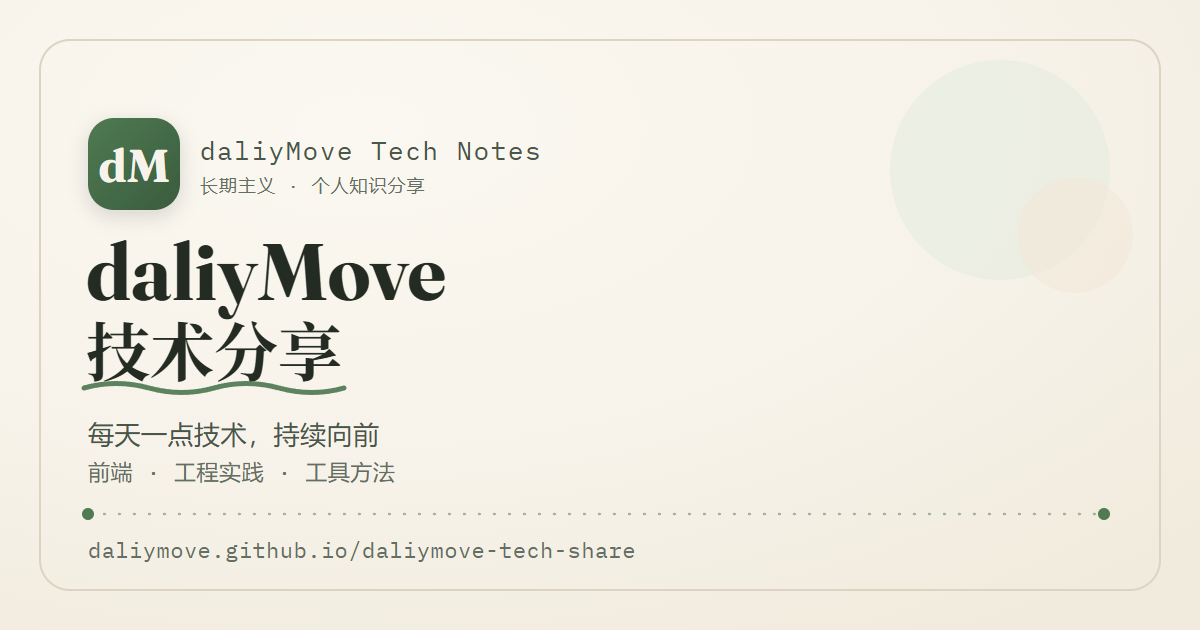
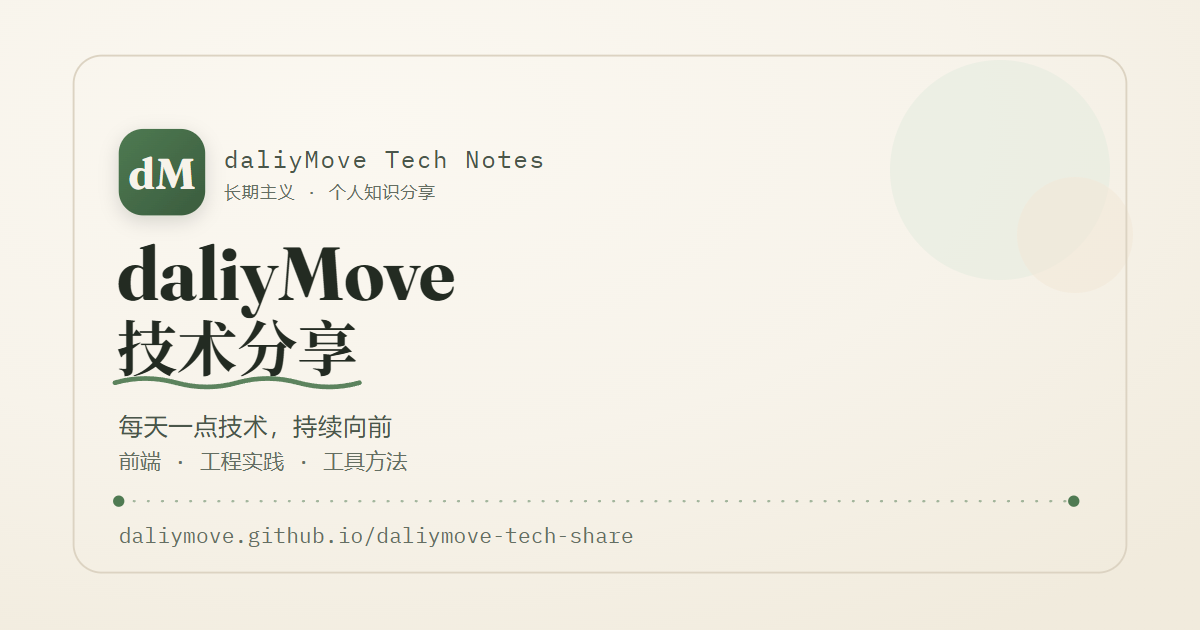
fix: scale cover content to prevent edge clipping
The exported cover PNG was cutting off the right end of the site URL.
Scale all non-background content to 94% with 36/18 px safe margins so
edges are no longer clipped during headless export or card object-cover.

- Update public/images/og/default.svg (add translate+scale group)
- Re-export default.png from cover-render.html
- Refresh design/cover-preview.html and design/cover-render.html
- Add design/screenshot-home-v2.png to verify card display
- Add .workbuddy/ and .playwright-cli/ to .gitignore

diff --git a/design/cover-preview.html b/design/cover-preview.html
@@ -13,8 +13,7 @@
   .block { margin: 0 0 40px; }
   .label { font-size: 12px; letter-spacing: 0.14em; text-transform: uppercase; color: #4F7A52; font-family: ui-monospace, monospace; margin: 0 0 10px; }
   .og { border-radius: 18px; overflow: hidden; box-shadow: 0 18px 50px rgba(35,43,34,0.18); }
-  .og svg { display: block; width: 100%; height: auto; }
-  /* 卡片裁切模拟：PostCard 用 object-cover，h-36=144px，宽约 340px */
+  .og img { display: block; width: 100%; height: auto; }
   .card { width: 340px; height: 144px; border-radius: 14px; overflow: hidden; box-shadow: 0 10px 30px rgba(35,43,34,0.14); }
   .card img { width: 100%; height: 100%; object-fit: cover; display: block; }
   .note { font-size: 12px; color: #646E62; margin-top: 8px; }
@@ -23,53 +22,21 @@
 <body>
 <div class="wrap">
   <h1>文章封面预览</h1>
-  <p class="sub">按 Direction A「有机手账风」重做 · public/images/og/default.svg</p>
+  <p class="sub">按 Direction A「有机手账风」重做 · public/images/og/default.png（1200×630）</p>
 
   <div class="block">
-    <p class="label">① 完整 OG 分享图 (1200 × 630)</p>
+    <p class="label">① 完整 OG 分享图</p>
     <div class="og">
-      <svg xmlns="http://www.w3.org/2000/svg" width="1200" height="630" viewBox="0 0 1200 630" role="img" aria-label="daliyMove 技术分享">
-        <defs>
-          <radialGradient id="bg" cx="30%" cy="20%" r="95%">
-            <stop offset="0%" stop-color="#FBF8F1"/>
-            <stop offset="55%" stop-color="#F7F3EA"/>
-            <stop offset="100%" stop-color="#F1EBDD"/>
-          </radialGradient>
-          <linearGradient id="mossGrad" x1="0" y1="0" x2="1" y2="1">
-            <stop offset="0%" stop-color="#4F7A52"/>
-            <stop offset="100%" stop-color="#3A5C3E"/>
-          </linearGradient>
-          <filter id="soft" x="-30%" y="-30%" width="160%" height="160%">
-            <feDropShadow dx="0" dy="6" stdDeviation="10" flood-color="#232B22" flood-opacity="0.14"/>
-          </filter>
-        </defs>
-        <rect width="1200" height="630" fill="url(#bg)"/>
-        <circle cx="1000" cy="170" r="110" fill="#E4EBDD" opacity="0.55"/>
-        <circle cx="1075" cy="235" r="58" fill="#F1E6D6" opacity="0.55"/>
-        <rect x="40" y="40" width="1120" height="550" rx="30" fill="none" stroke="#DCD3C2" stroke-width="2"/>
-        <g filter="url(#soft)"><rect x="88" y="118" width="92" height="92" rx="26" fill="url(#mossGrad)"/></g>
-        <text x="134" y="182" text-anchor="middle" fill="#F7F3EA" font-family="'Fraunces','Noto Serif SC','Songti SC',Georgia,serif" font-size="46" font-weight="700">dM</text>
-        <text x="200" y="160" fill="#4A564A" font-family="'IBM Plex Mono',ui-monospace,'SFMono-Regular','Courier New',monospace" font-size="26" letter-spacing="1.5">daliyMove Tech Notes</text>
-        <text x="200" y="192" fill="#646E62" font-family="'IBM Plex Mono',ui-monospace,'SFMono-Regular','Courier New',monospace" font-size="18" letter-spacing="1">长期主义 · 个人知识分享</text>
-        <text x="86" y="300" fill="#232B22" font-family="'Fraunces','Noto Serif SC','Songti SC',Georgia,serif" font-size="80" font-weight="700">daliyMove</text>
-        <text x="86" y="376" fill="#232B22" font-family="'Fraunces','Noto Serif SC','Songti SC',Georgia,serif" font-size="64" font-weight="700">技术分享</text>
-        <path d="M84 388 q 32 -9 65 0 t 65 0 t 65 0 t 65 0" fill="none" stroke="#4F7A52" stroke-width="5" stroke-linecap="round" stroke-linejoin="round" opacity="0.92"/>
-        <text x="88" y="444" fill="#4A564A" font-family="'IBM Plex Mono',ui-monospace,'SFMono-Regular','Courier New',monospace" font-size="26" letter-spacing="0.5">每天一点技术，持续向前</text>
-        <text x="88" y="480" fill="#646E62" font-family="'IBM Plex Mono',ui-monospace,'SFMono-Regular','Courier New',monospace" font-size="22" letter-spacing="0.5">前端 · 工程实践 · 工具方法</text>
-        <circle cx="88" cy="514" r="6" fill="#4F7A52"/>
-        <line x1="104" y1="514" x2="1098" y2="514" stroke="#4F7A52" stroke-width="2.5" stroke-dasharray="1 14" stroke-linecap="round" opacity="0.5"/>
-        <circle cx="1104" cy="514" r="6" fill="#4F7A52"/>
-        <text x="88" y="558" fill="#646E62" font-family="'IBM Plex Mono',ui-monospace,'SFMono-Regular','Courier New',monospace" font-size="22" letter-spacing="0.5">daliymove.github.io/daliymove-tech-share</text>
-      </svg>
+      <img src="../public/images/og/default.png" width="1200" height="630" alt="daliyMove 技术分享 cover" />
     </div>
   </div>
 
   <div class="block">
     <p class="label">② 卡片内显示效果 (340 × 144，object-cover 裁切中间横带)</p>
     <div class="card">
-      <img src="../public/images/og/default.svg" alt="cover" />
+      <img src="../public/images/og/default.png" alt="cover" />
     </div>
-    <p class="note">标题已上移，确保卡片只露中间横带时仍能完整显示「daliyMove / 技术分享」+ 手绘下划线。</p>
+    <p class="note">内容已整体缩放 94% 并留出安全边距，文字不再被边缘裁切；卡片裁切时仍保留「daliyMove / 技术分享」+ 手绘下划线。</p>
   </div>
 </div>
 </body>

diff --git a/design/cover-render.html b/design/cover-render.html
@@ -26,20 +26,22 @@
   <rect width="1200" height="630" fill="url(#bg)"/>
   <circle cx="1000" cy="170" r="110" fill="#E4EBDD" opacity="0.55"/>
   <circle cx="1075" cy="235" r="58" fill="#F1E6D6" opacity="0.55"/>
-  <rect x="40" y="40" width="1120" height="550" rx="30" fill="none" stroke="#DCD3C2" stroke-width="2"/>
-  <g filter="url(#soft)"><rect x="88" y="118" width="92" height="92" rx="26" fill="url(#mossGrad)"/></g>
-  <text x="134" y="182" text-anchor="middle" fill="#F7F3EA" font-family="'Fraunces','Noto Serif SC','Songti SC',Georgia,serif" font-size="46" font-weight="700">dM</text>
-  <text x="200" y="160" fill="#4A564A" font-family="'IBM Plex Mono',ui-monospace,'SFMono-Regular','Courier New',monospace" font-size="26" letter-spacing="1.5">daliyMove Tech Notes</text>
-  <text x="200" y="192" fill="#646E62" font-family="'IBM Plex Mono',ui-monospace,'SFMono-Regular','Courier New',monospace" font-size="18" letter-spacing="1">长期主义 · 个人知识分享</text>
-  <text x="86" y="300" fill="#232B22" font-family="'Fraunces','Noto Serif SC','Songti SC',Georgia,serif" font-size="80" font-weight="700">daliyMove</text>
-  <text x="86" y="376" fill="#232B22" font-family="'Fraunces','Noto Serif SC','Songti SC',Georgia,serif" font-size="64" font-weight="700">技术分享</text>
-  <path d="M84 388 q 32 -9 65 0 t 65 0 t 65 0 t 65 0" fill="none" stroke="#4F7A52" stroke-width="5" stroke-linecap="round" stroke-linejoin="round" opacity="0.92"/>
-  <text x="88" y="444" fill="#4A564A" font-family="'IBM Plex Mono',ui-monospace,'SFMono-Regular','Courier New',monospace" font-size="26" letter-spacing="0.5">每天一点技术，持续向前</text>
-  <text x="88" y="480" fill="#646E62" font-family="'IBM Plex Mono',ui-monospace,'SFMono-Regular','Courier New',monospace" font-size="22" letter-spacing="0.5">前端 · 工程实践 · 工具方法</text>
-  <circle cx="88" cy="514" r="6" fill="#4F7A52"/>
-  <line x1="104" y1="514" x2="1098" y2="514" stroke="#4F7A52" stroke-width="2.5" stroke-dasharray="1 14" stroke-linecap="round" opacity="0.5"/>
-  <circle cx="1104" cy="514" r="6" fill="#4F7A52"/>
-  <text x="88" y="558" fill="#646E62" font-family="'IBM Plex Mono',ui-monospace,'SFMono-Regular','Courier New',monospace" font-size="22" letter-spacing="0.5">daliymove.github.io/daliymove-tech-share</text>
+  <g transform="translate(36, 18) scale(0.94)">
+    <rect x="40" y="40" width="1120" height="550" rx="30" fill="none" stroke="#DCD3C2" stroke-width="2"/>
+    <g filter="url(#soft)"><rect x="88" y="118" width="92" height="92" rx="26" fill="url(#mossGrad)"/></g>
+    <text x="134" y="182" text-anchor="middle" fill="#F7F3EA" font-family="'Fraunces','Noto Serif SC','Songti SC',Georgia,serif" font-size="46" font-weight="700">dM</text>
+    <text x="200" y="160" fill="#4A564A" font-family="'IBM Plex Mono',ui-monospace,'SFMono-Regular','Courier New',monospace" font-size="26" letter-spacing="1.5">daliyMove Tech Notes</text>
+    <text x="200" y="192" fill="#646E62" font-family="'IBM Plex Mono',ui-monospace,'SFMono-Regular','Courier New',monospace" font-size="18" letter-spacing="1">长期主义 · 个人知识分享</text>
+    <text x="86" y="300" fill="#232B22" font-family="'Fraunces','Noto Serif SC','Songti SC',Georgia,serif" font-size="80" font-weight="700">daliyMove</text>
+    <text x="86" y="376" fill="#232B22" font-family="'Fraunces','Noto Serif SC','Songti SC',Georgia,serif" font-size="64" font-weight="700">技术分享</text>
+    <path d="M84 388 q 32 -9 65 0 t 65 0 t 65 0 t 65 0" fill="none" stroke="#4F7A52" stroke-width="5" stroke-linecap="round" stroke-linejoin="round" opacity="0.92"/>
+    <text x="88" y="444" fill="#4A564A" font-family="'IBM Plex Mono',ui-monospace,'SFMono-Regular','Courier New',monospace" font-size="26" letter-spacing="0.5">每天一点技术，持续向前</text>
+    <text x="88" y="480" fill="#646E62" font-family="'IBM Plex Mono',ui-monospace,'SFMono-Regular','Courier New',monospace" font-size="22" letter-spacing="0.5">前端 · 工程实践 · 工具方法</text>
+    <circle cx="88" cy="514" r="6" fill="#4F7A52"/>
+    <line x1="104" y1="514" x2="1098" y2="514" stroke="#4F7A52" stroke-width="2.5" stroke-dasharray="1 14" stroke-linecap="round" opacity="0.5"/>
+    <circle cx="1104" cy="514" r="6" fill="#4F7A52"/>
+    <text x="88" y="558" fill="#646E62" font-family="'IBM Plex Mono',ui-monospace,'SFMono-Regular','Courier New',monospace" font-size="22" letter-spacing="0.5">daliymove.github.io/daliymove-tech-share</text>
+  </g>
 </svg>
 </body>
 </html>